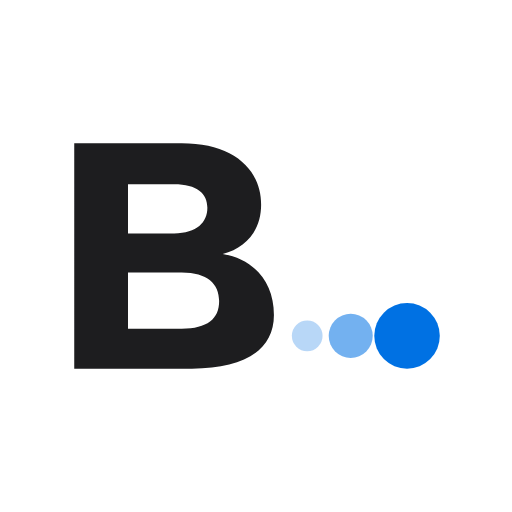
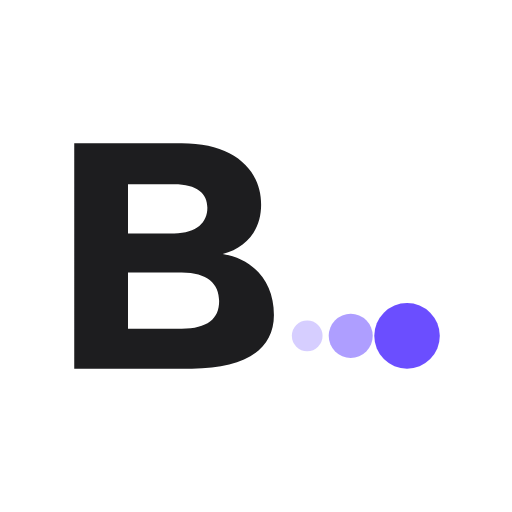
Relief violet : cartes et boutons légèrement bombés avec ombre teintée, violet par défaut, dégradé violet-rose sur les jauges, icône aux points violets
Claude-Session: https://claude.ai/code/session_01GGgVdJS4ggNRcLX2Qj3QgF

Changed region(s): [[0.5625, 0.5938, 0.875, 0.7188]]

diff --git a/index.html b/index.html
@@ -10,8 +10,8 @@
 <meta name="theme-color" content="#F5F5F7" id="meta-theme">
 <meta name="format-detection" content="telephone=no">
 <link rel="manifest" href="manifest.webmanifest">
-<link rel="apple-touch-icon" href="apple-touch-icon.png?v=2">
-<link rel="icon" type="image/png" href="favicon.png?v=2">
+<link rel="apple-touch-icon" href="apple-touch-icon.png?v=3">
+<link rel="icon" type="image/png" href="favicon.png?v=3">
 <title>Balancier.</title>
 <style>
 /* Layout (A1 · compteur façon néobanque): fond gris clair, cartes blanches très arrondies. Aujourd'hui = compteur centré + 4 actions rondes + carte « sortie possible » + trajet + activité façon relevé bancaire. Barre d'onglets translucide en bas. */
@@ -386,6 +386,52 @@ button.item:active{opacity:.5}
 .item.enter{animation:rowIn .45s var(--ease) both}
 @keyframes rowIn{from{opacity:0;transform:translateY(-6px)}}
 .steps i{transition:width .3s var(--ease),background-color .3s ease}
+/* relief : cartes légèrement bombées, reflet en haut, ombre douce teintée de violet */
+:root{
+  --bg:#F4F3F9; --card:#FFFFFF; --card2:#FBFAFF; --edge:rgba(107,78,255,.09);
+  --relief:inset 0 1px 0 rgba(255,255,255,1),inset 0 -3px 8px rgba(107,78,255,.045),0 1px 2px rgba(40,24,110,.06),0 14px 30px -16px rgba(60,38,170,.32);
+  --relief-sm:inset 0 1px 0 rgba(255,255,255,1),inset 0 -2px 5px rgba(107,78,255,.06),0 1px 2px rgba(40,24,110,.08),0 8px 16px -10px rgba(60,38,170,.34);
+  --pressed:inset 0 2px 5px rgba(60,38,170,.12),inset 0 -1px 0 rgba(255,255,255,.9);
+  --pink:#E07AD8;
+}
+:root[data-theme="dark"]{
+  --bg:#0B0A10; --card:#1B1A23; --card2:#16151D; --edge:rgba(170,150,255,.10);
+  --relief:inset 0 1px 0 rgba(255,255,255,.07),inset 0 -3px 8px rgba(0,0,0,.25),0 1px 2px rgba(0,0,0,.5),0 14px 30px -16px rgba(0,0,0,.9);
+  --relief-sm:inset 0 1px 0 rgba(255,255,255,.08),inset 0 -2px 5px rgba(0,0,0,.25),0 1px 2px rgba(0,0,0,.5),0 8px 16px -10px rgba(0,0,0,.9);
+  --pressed:inset 0 2px 6px rgba(0,0,0,.5),inset 0 -1px 0 rgba(255,255,255,.05);
+}
+.card,.list,.tile,.ghost,.rowcard,.choice,.c-card,.msg.bot,.status,.iconbtn,.ava,.chat-ava{
+  background:linear-gradient(180deg,var(--card) 0%,var(--card2) 100%);border:1px solid var(--edge);box-shadow:var(--relief)}
+.card,.list{border-radius:24px}
+.status,.iconbtn,.tile,.pill:not(.ok):not(.neg),.c-num > button,.x,.c-time,.c-input{box-shadow:var(--relief-sm)}
+.pill:not(.ok):not(.neg){background:linear-gradient(180deg,var(--card),var(--card2));border:1px solid var(--edge)}
+.act i{background:linear-gradient(180deg,var(--card),var(--card2));border:1px solid var(--edge);box-shadow:var(--relief-sm)}
+.act.primary i,.cta,.c-send,.msg.me,.chip.on,.c-opt.on,.days button.on{
+  background:linear-gradient(180deg,color-mix(in srgb,var(--accent) 78%,#fff) 0%,var(--accent) 100%);
+  box-shadow:inset 0 1px 0 rgba(255,255,255,.28),0 10px 22px -10px color-mix(in srgb,var(--accent) 75%,transparent)}
+.act.primary i{border:0}
+.cta{border:1px solid color-mix(in srgb,var(--accent) 70%,#000 10%)}
+.x,.c-num > button{background:linear-gradient(180deg,var(--card),var(--card2));border:1px solid var(--edge)}
+.c-opt{background:linear-gradient(180deg,var(--card),var(--card2));box-shadow:var(--relief-sm)}
+.c-opt.on{border-color:transparent}
+.days button,.chip,.c-quick .c-opt{box-shadow:var(--pressed);background:var(--soft-in,var(--grey-soft))}
+.days button.on{box-shadow:inset 0 1px 0 rgba(255,255,255,.28),0 6px 14px -8px color-mix(in srgb,var(--accent) 80%,transparent)}
+.choice.on,.c-card.on{border-color:var(--accent);box-shadow:var(--relief),0 0 0 3px color-mix(in srgb,var(--accent) 16%,transparent)}
+.track{box-shadow:var(--pressed);background:var(--grey-soft)}
+.track i,.meter i,.progress i{background:linear-gradient(90deg,var(--accent),color-mix(in srgb,var(--accent) 45%,var(--pink)))}
+.track em{box-shadow:0 0 0 3px var(--accent),0 4px 10px -2px color-mix(in srgb,var(--accent) 60%,transparent)}
+.meter{box-shadow:var(--pressed);background:var(--grey-soft)}
+.seg{box-shadow:var(--pressed);background:var(--grey-soft)}
+.seg::before{background:linear-gradient(180deg,var(--card),var(--card2));box-shadow:var(--relief-sm)}
+.ico.blue{background:var(--accent-soft);color:var(--accent-ink)}
+.cta:active,.act.primary:active i{box-shadow:inset 0 2px 6px rgba(0,0,0,.18)}
+.ghost:active,.rowcard:active,.choice:active,.c-card:active,.iconbtn:active,.x:active{box-shadow:var(--pressed)}
+.act:active i{box-shadow:var(--pressed)}
+.tabbar{box-shadow:0 -10px 30px -18px rgba(60,38,170,.25)}
+.sheet{box-shadow:0 -20px 40px -20px rgba(40,24,110,.35)}
+:root[data-theme="dark"] .sheet{--card:#24232D;--card2:#1F1E27}
+.hero-v{background:linear-gradient(180deg,var(--fg) 30%,color-mix(in srgb,var(--fg) 70%,var(--accent)));-webkit-background-clip:text;background-clip:text;color:transparent}
+.hero-v.tick{color:transparent}
 /* « Réduire les animations » : pas de mouvement, seulement des fondus */
 @keyframes fadeOnly{from{opacity:0}}
 @media (prefers-reduced-motion:reduce){
@@ -473,7 +519,7 @@ button.item:active{opacity:.5}
 <script>
 (() => {
   const LS_KEY = "pointage.v1";
-  const APP_VERSION = "1.6 · accueil en conversation";
+  const APP_VERSION = "1.7 · relief violet";
   const clone = o => JSON.parse(JSON.stringify(o));
   const FULL = { GE: 2520, FR: 2100, none: 2400 };   // temps plein par semaine (min) selon la région
   const DEFAULT_SETTINGS = {
@@ -487,7 +533,7 @@ button.item:active{opacity:.5}
     days: [false, true, true, true, true, true, false], // équipes / forfait : jours travaillés
     forfaitDays: 218,
     pauseMin: 30, offered: 0, winStart: 390, clampStart: false, minOut: null,
-    accent: "bleu", theme: "auto", holidays: "GE",
+    accent: "violet", accentV: 2, theme: "auto", holidays: "GE",
     vacDays: 25, maxWeek: 2700, remoteCap: 0,
     transit: { home: "", work: "", margin: 5 }
   };
@@ -553,7 +599,7 @@ button.item:active{opacity:.5}
     brief: '<rect x="3" y="7" width="18" height="13" rx="2.5"/><path d="M9 7V5a2 2 0 0 1 2-2h2a2 2 0 0 1 2 2v2M3 13h18"/>'
   };
   const ic = k => `<svg class="i" viewBox="0 0 24 24" aria-hidden="true">${IC[k]}</svg>`;
-  const MARK = `<svg viewBox="0 0 100 100" aria-hidden="true"><rect width="100" height="100" fill="#FFFFFF"/><path fill="#1D1D1F" fill-rule="evenodd" transform="translate(14.5 28)" d="M0 0H21C31 0 36.5 5 36.5 12C36.5 17 33.5 20.5 29 21.6C35 22.6 39 27 39 33.5C39 40.5 33 44 23 44H0Z M10.5 8H19.5C24 8 26 9.8 26 12.6C26 15.4 24 17.6 19.5 17.6H10.5Z M10.5 25.2H21C26 25.2 28.3 27.4 28.3 30.8C28.3 34.3 26 36.2 21 36.2H10.5Z"/><circle cx="60" cy="65.6" r="3" fill="#0071E3" fill-opacity=".28"/><circle cx="68.5" cy="65.6" r="4.3" fill="#0071E3" fill-opacity=".55"/><circle cx="79.5" cy="65.6" r="6.4" fill="#0071E3"/></svg>`;
+  const MARK = `<svg viewBox="0 0 100 100" aria-hidden="true"><rect width="100" height="100" fill="#FFFFFF"/><path fill="#1D1D1F" fill-rule="evenodd" transform="translate(14.5 28)" d="M0 0H21C31 0 36.5 5 36.5 12C36.5 17 33.5 20.5 29 21.6C35 22.6 39 27 39 33.5C39 40.5 33 44 23 44H0Z M10.5 8H19.5C24 8 26 9.8 26 12.6C26 15.4 24 17.6 19.5 17.6H10.5Z M10.5 25.2H21C26 25.2 28.3 27.4 28.3 30.8C28.3 34.3 26 36.2 21 36.2H10.5Z"/><circle cx="60" cy="65.6" r="3" style="fill:var(--accent)" fill-opacity=".28"/><circle cx="68.5" cy="65.6" r="4.3" style="fill:var(--accent)" fill-opacity=".55"/><circle cx="79.5" cy="65.6" r="6.4" style="fill:var(--accent)"/></svg>`;
 
   const TYPES = { work: "Travail", conge: "Congé", rtt: "RTT", maladie: "Maladie", recup: "Récupération", ferie: "Férié" };
   const TYPE_ICO = { conge: ["sun", "blue"], rtt: ["sun", "violet"], maladie: ["plus", "red"], recup: ["loop", "green"], ferie: ["flag", ""], work: ["clock", ""] };
@@ -575,9 +621,9 @@ button.item:active{opacity:.5}
   const meaningful = r => r.punches.length || r.type !== "work" || r.remote || r.shift;
 
   const ACCENTS = {
+    violet: { name: "Violet", light: ["#6B4EFF", "#EFEBFF", "#4B32C8", "#FFFFFF"], dark: ["#8E7BFF", "rgba(142,123,255,.2)", "#B9ADFF", "#FFFFFF"] },
     bleu:   { name: "Bleu",   light: ["#0071E3", "#E8F1FC", "#0058B0", "#FFFFFF"], dark: ["#0A84FF", "rgba(10,132,255,.18)", "#64B0FF", "#FFFFFF"] },
     noir:   { name: "Noir",   light: ["#1D1D1F", "#ECECEE", "#1D1D1F", "#FFFFFF"], dark: ["#F5F5F7", "rgba(255,255,255,.12)", "#F5F5F7", "#000000"] },
-    violet: { name: "Violet", light: ["#5E5CE6", "#EEEDFB", "#3A33A3", "#FFFFFF"], dark: ["#7D7AFF", "rgba(125,122,255,.2)", "#A5A1FF", "#FFFFFF"] },
     vert:   { name: "Vert",   light: ["#1A7F37", "#E3F3E7", "#1A7F37", "#FFFFFF"], dark: ["#30D158", "rgba(48,209,88,.16)", "#30D158", "#000000"] }
   };
 
@@ -586,7 +632,8 @@ button.item:active{opacity:.5}
     if (!Array.isArray(out.sched) || out.sched.length !== 7) { const d = (s && s.daily) || 504; out.sched = [0, d, d, d, d, d, 0]; }
     const ot = (s && s.transit) || {};
     out.transit = { home: ot.home || ot.to || "", work: ot.work || ot.from || "", margin: ot.margin ?? ot.walk ?? 5 };
-    if (!ACCENTS[out.accent]) out.accent = "bleu";
+    if (!ACCENTS[out.accent]) out.accent = "violet";
+    if (!(out.accentV >= 2)) { if (out.accent === "bleu") out.accent = "violet"; out.accentV = 2; }   // le violet devient la couleur de Balancier
     if (!WORK[out.type]) out.type = "variable";
     if (s && s.onboarded === undefined && existingUser) out.onboarded = true;   // utilisateurs d'avant les profils
     if (!Array.isArray(out.days) || out.days.length !== 7) out.days = clone(DEFAULT_SETTINGS.days);
@@ -614,7 +661,7 @@ button.item:active{opacity:.5}
     if (root.dataset.theme !== mode) root.dataset.theme = mode;
     const a = (ACCENTS[state.settings.accent] || ACCENTS.bleu)[mode];
     ["--accent", "--accent-soft", "--accent-ink", "--on-accent"].forEach((v, i) => root.style.setProperty(v, a[i]));
-    const mt = document.getElementById("meta-theme"); if (mt) mt.content = mode === "dark" ? "#000000" : "#F5F5F7";
+    const mt = document.getElementById("meta-theme"); if (mt) mt.content = mode === "dark" ? "#0B0A10" : "#F4F3F9";
   }
   if (mq && mq.addEventListener) mq.addEventListener("change", () => { render(); if (tab === "set") renderSettings(); });
 

diff --git a/sw.js b/sw.js
@@ -1,4 +1,4 @@
-const CACHE = "balancier-v12";
+const CACHE = "balancier-v13";
 const SHELL = ["./", "index.html", "manifest.webmanifest", "apple-touch-icon.png", "icon-192.png", "icon-512.png", "favicon.png"];
 self.addEventListener("install", e => { e.waitUntil(caches.open(CACHE).then(c => c.addAll(SHELL.map(u => new Request(u, { cache: "reload" }))))); self.skipWaiting(); });
 self.addEventListener("activate", e => { e.waitUntil(caches.keys().then(ks => Promise.all(ks.filter(k => k !== CACHE).map(k => caches.delete(k))))); self.clients.claim(); });
